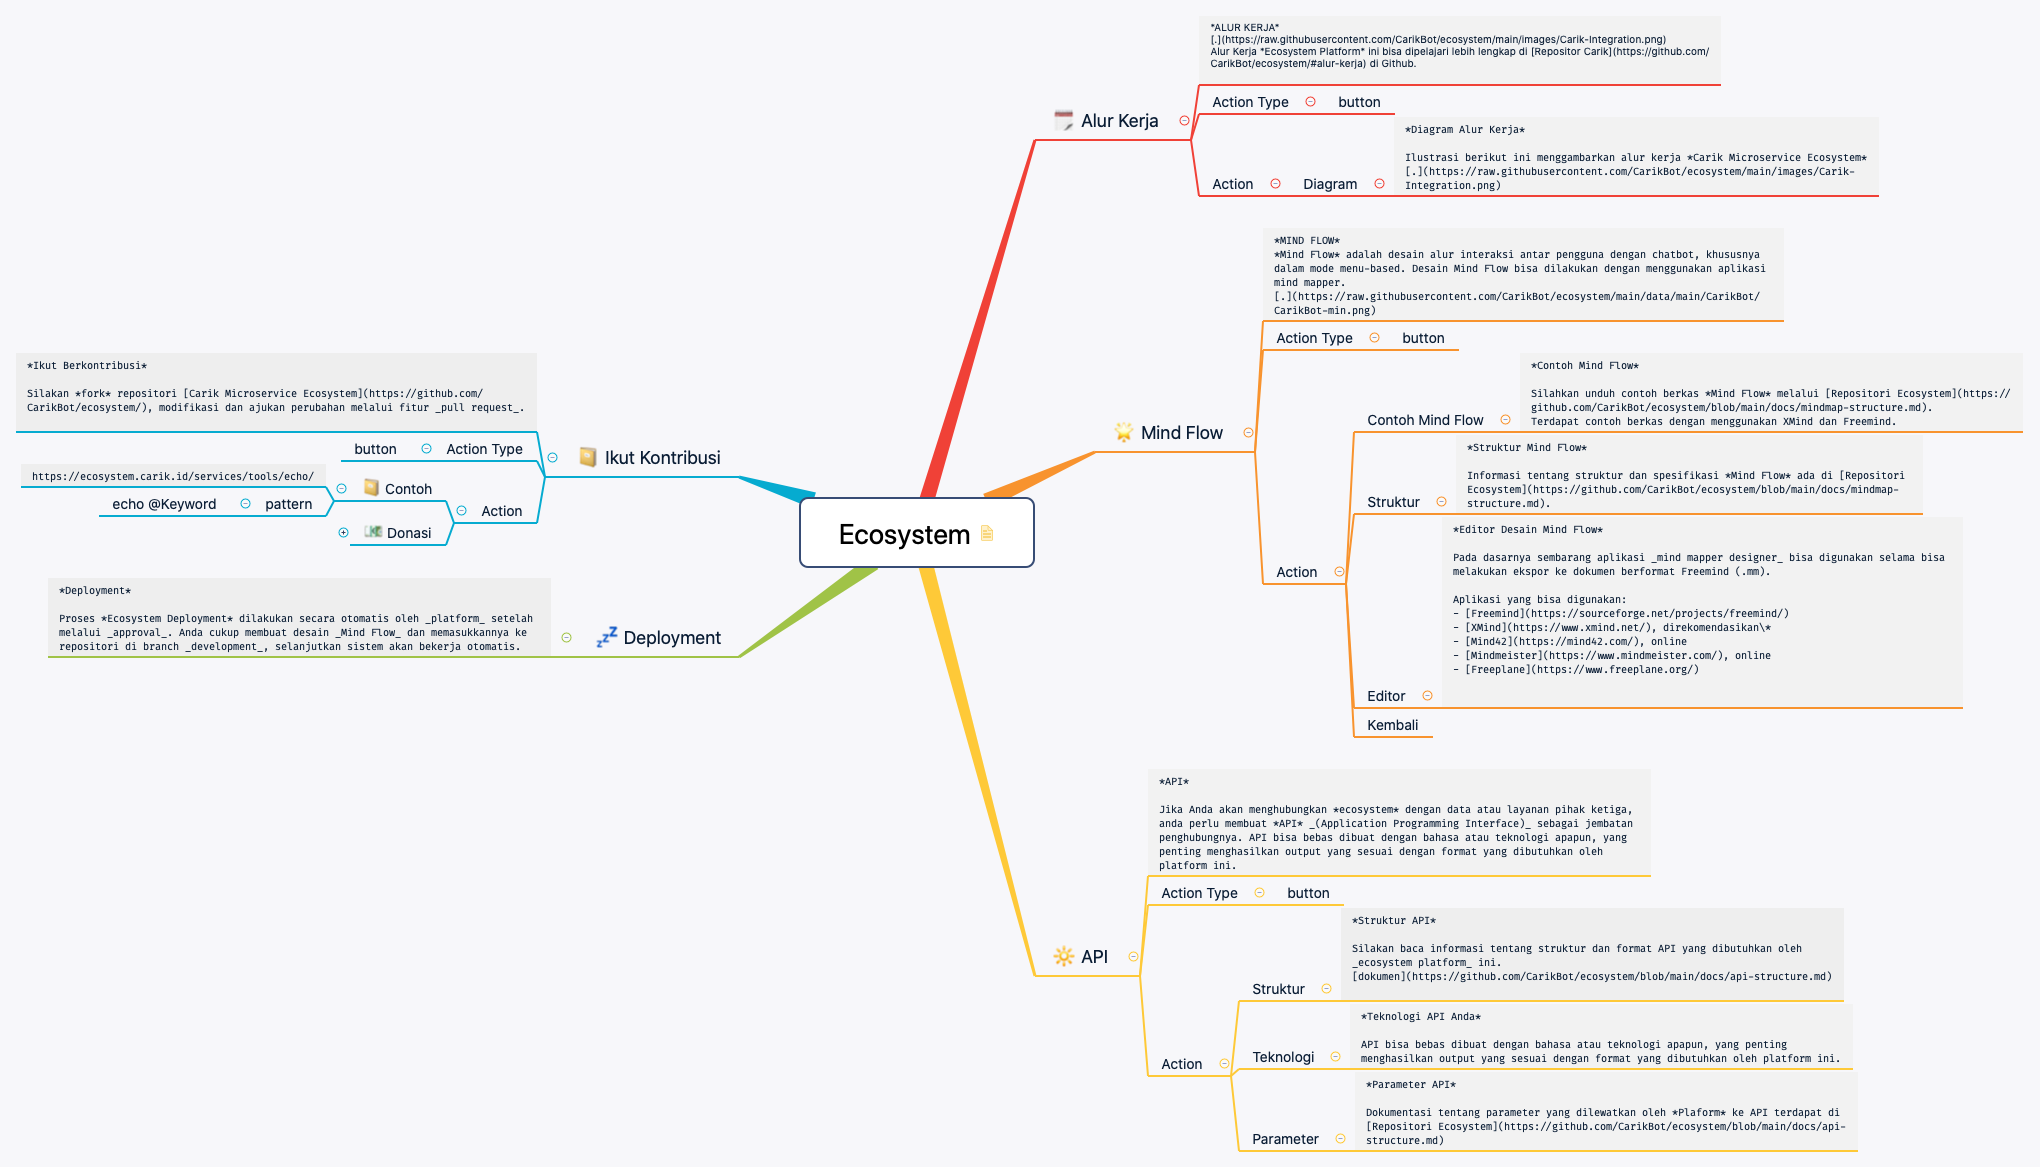
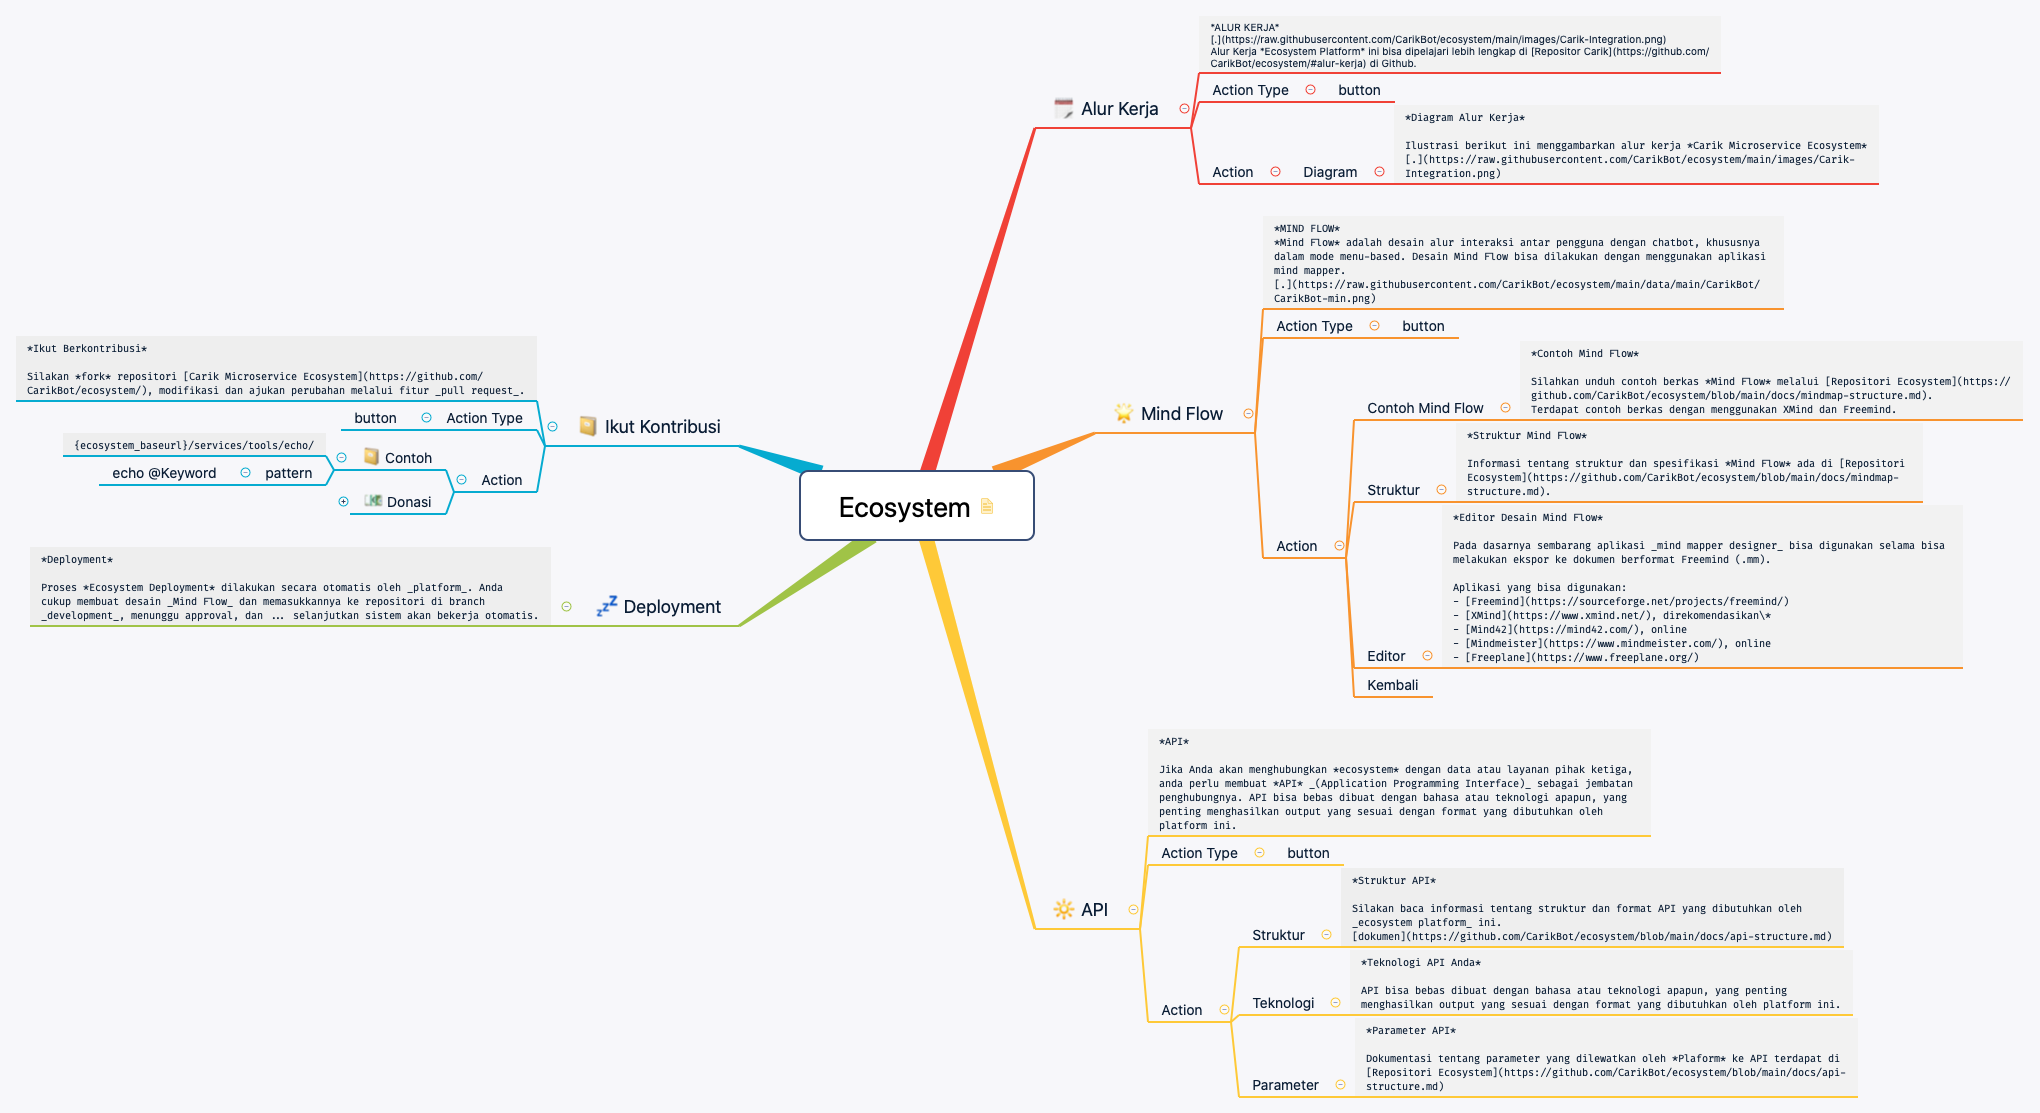
readme: api

diff --git a/docs/api-structure.md b/docs/api-structure.md
@@ -11,7 +11,12 @@ Format standar output API yang diharapan:
 }
 ```
 
-Isi dari variabel `text` adalah konten yang akan dikirimkan kepada pengguna.
+Dengan ketentuan:
+
+| variabel | Deskripsi |
+|---|---|
+| code | error code.<br>0: sukses |
+| text | konten yang akan dikirimkan kepada pengguna. |
 
 
 ## Parameter yang dilewatkan ke API
@@ -27,3 +32,13 @@ Tentunya anda ingin mendapatkan informasi siapa yang mengirimkan pesan untuk tuj
 | ChannelId | Channel aplikasi yang digunakan, yaitu: telegram, facebook, line, whatsapp, dan sebagainya. |
 
 
+## Contoh: API Echo
+
+Contoh source sederhana bisa anda lihat dari [**API ECHO**](./source/services/tools/echo), yang memiliki fungsi mengembalikan respon sesuai kata/kalimat yang diketikkan oleh user.
+
+**MindFlow** dari fitur ini bisa anda dari dokumen [mindmap](../data/other/Ecosystem/).
+
+![API Echo](../source/services/tools/echo/echo-menu.png)
+
+
+Dari ilustrasi di atas ini akan terbaca: terdapat pilihan menu "Contoh". Dan jika pengguna menuliskan kalimat `echo apapun teksnya`, platform akan mengirimkan informasi dan [parameter](#parameter-yang-dilewatkan-ke-api) ini ke api di url `{url}/services/tools/echo/`.

diff --git a/source/README.md b/source/README.md
@@ -1,0 +1,10 @@
+# API Source
+
+Source yang ada di folder ini merupakan contoh API sederhana yang berfungsi sebagai `penjembatan` dengan eksternal sistem.
+
+Source dibuat dengan bahasa PHP native, tanpa menggunakan framework aplikasi. Dengan pertimbangan agar lebih mudah dipelajari konsep dan strukturnya.
+
+Dipersilakan juga menggunakan bahasa ataupun teknologi yang lain.
+
+Pelajari juga [dokumen tentang struktur API](../docs/api-structure.md) yang diperlukan.
+
